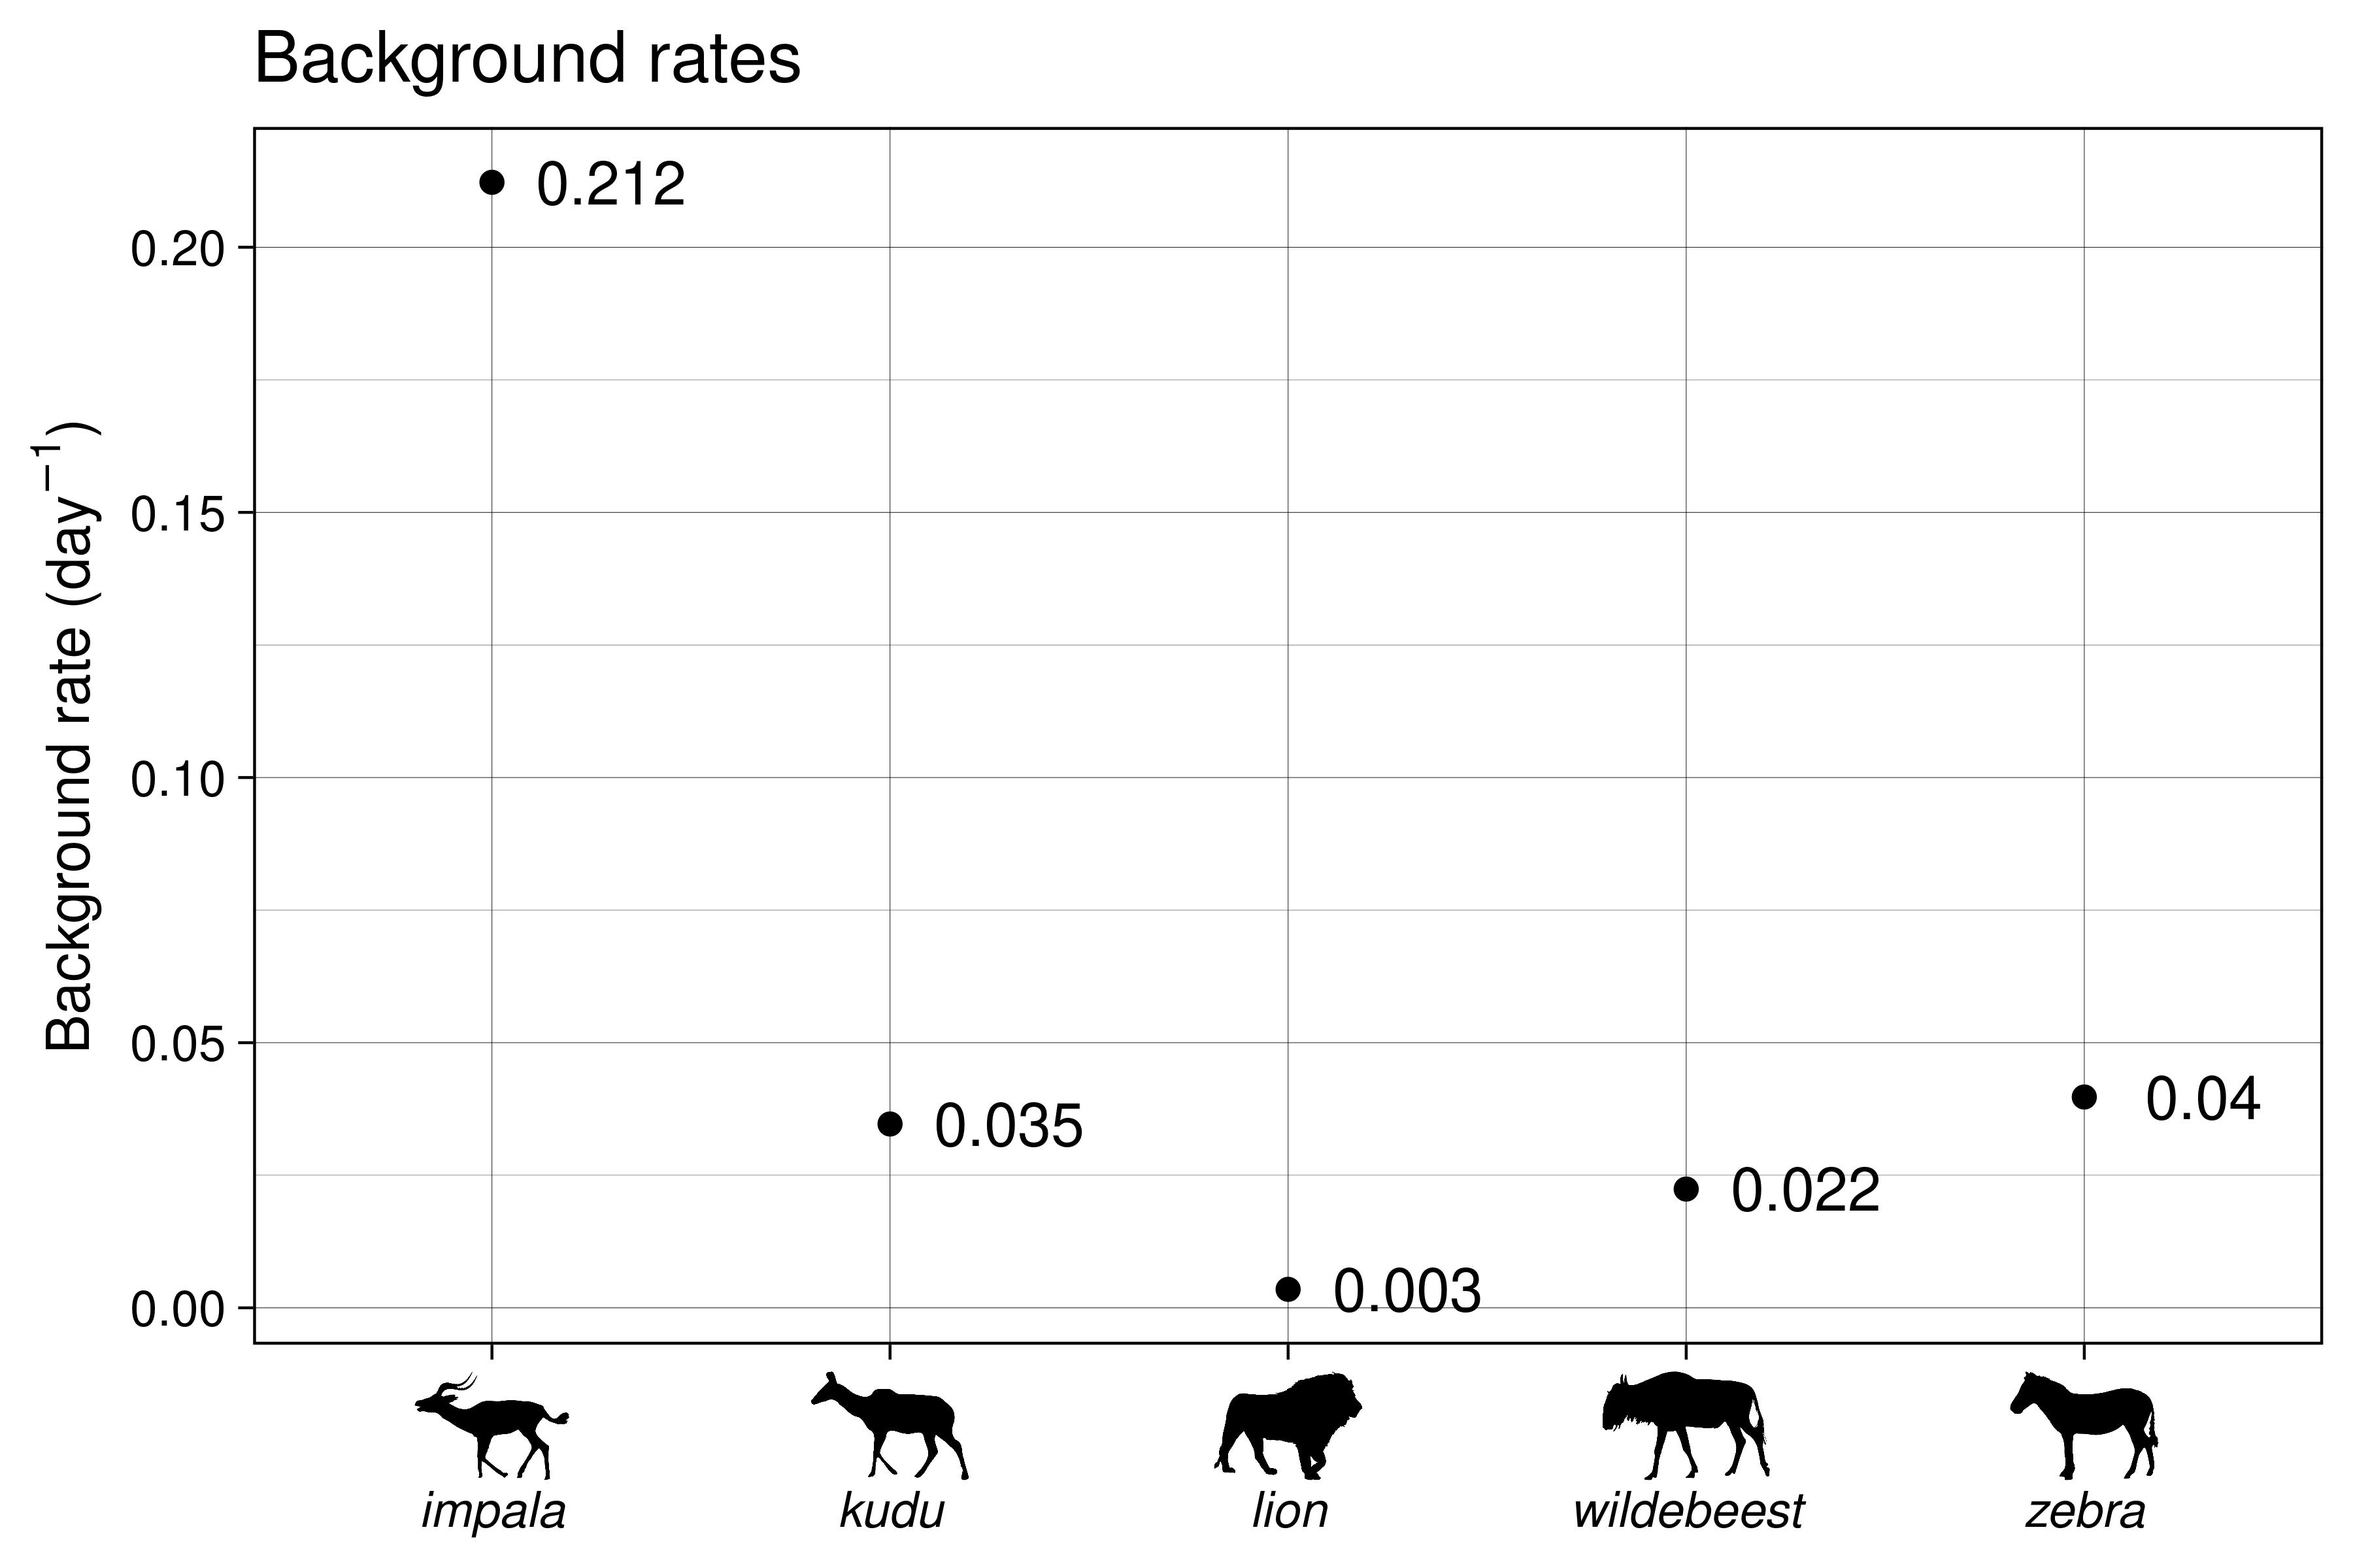
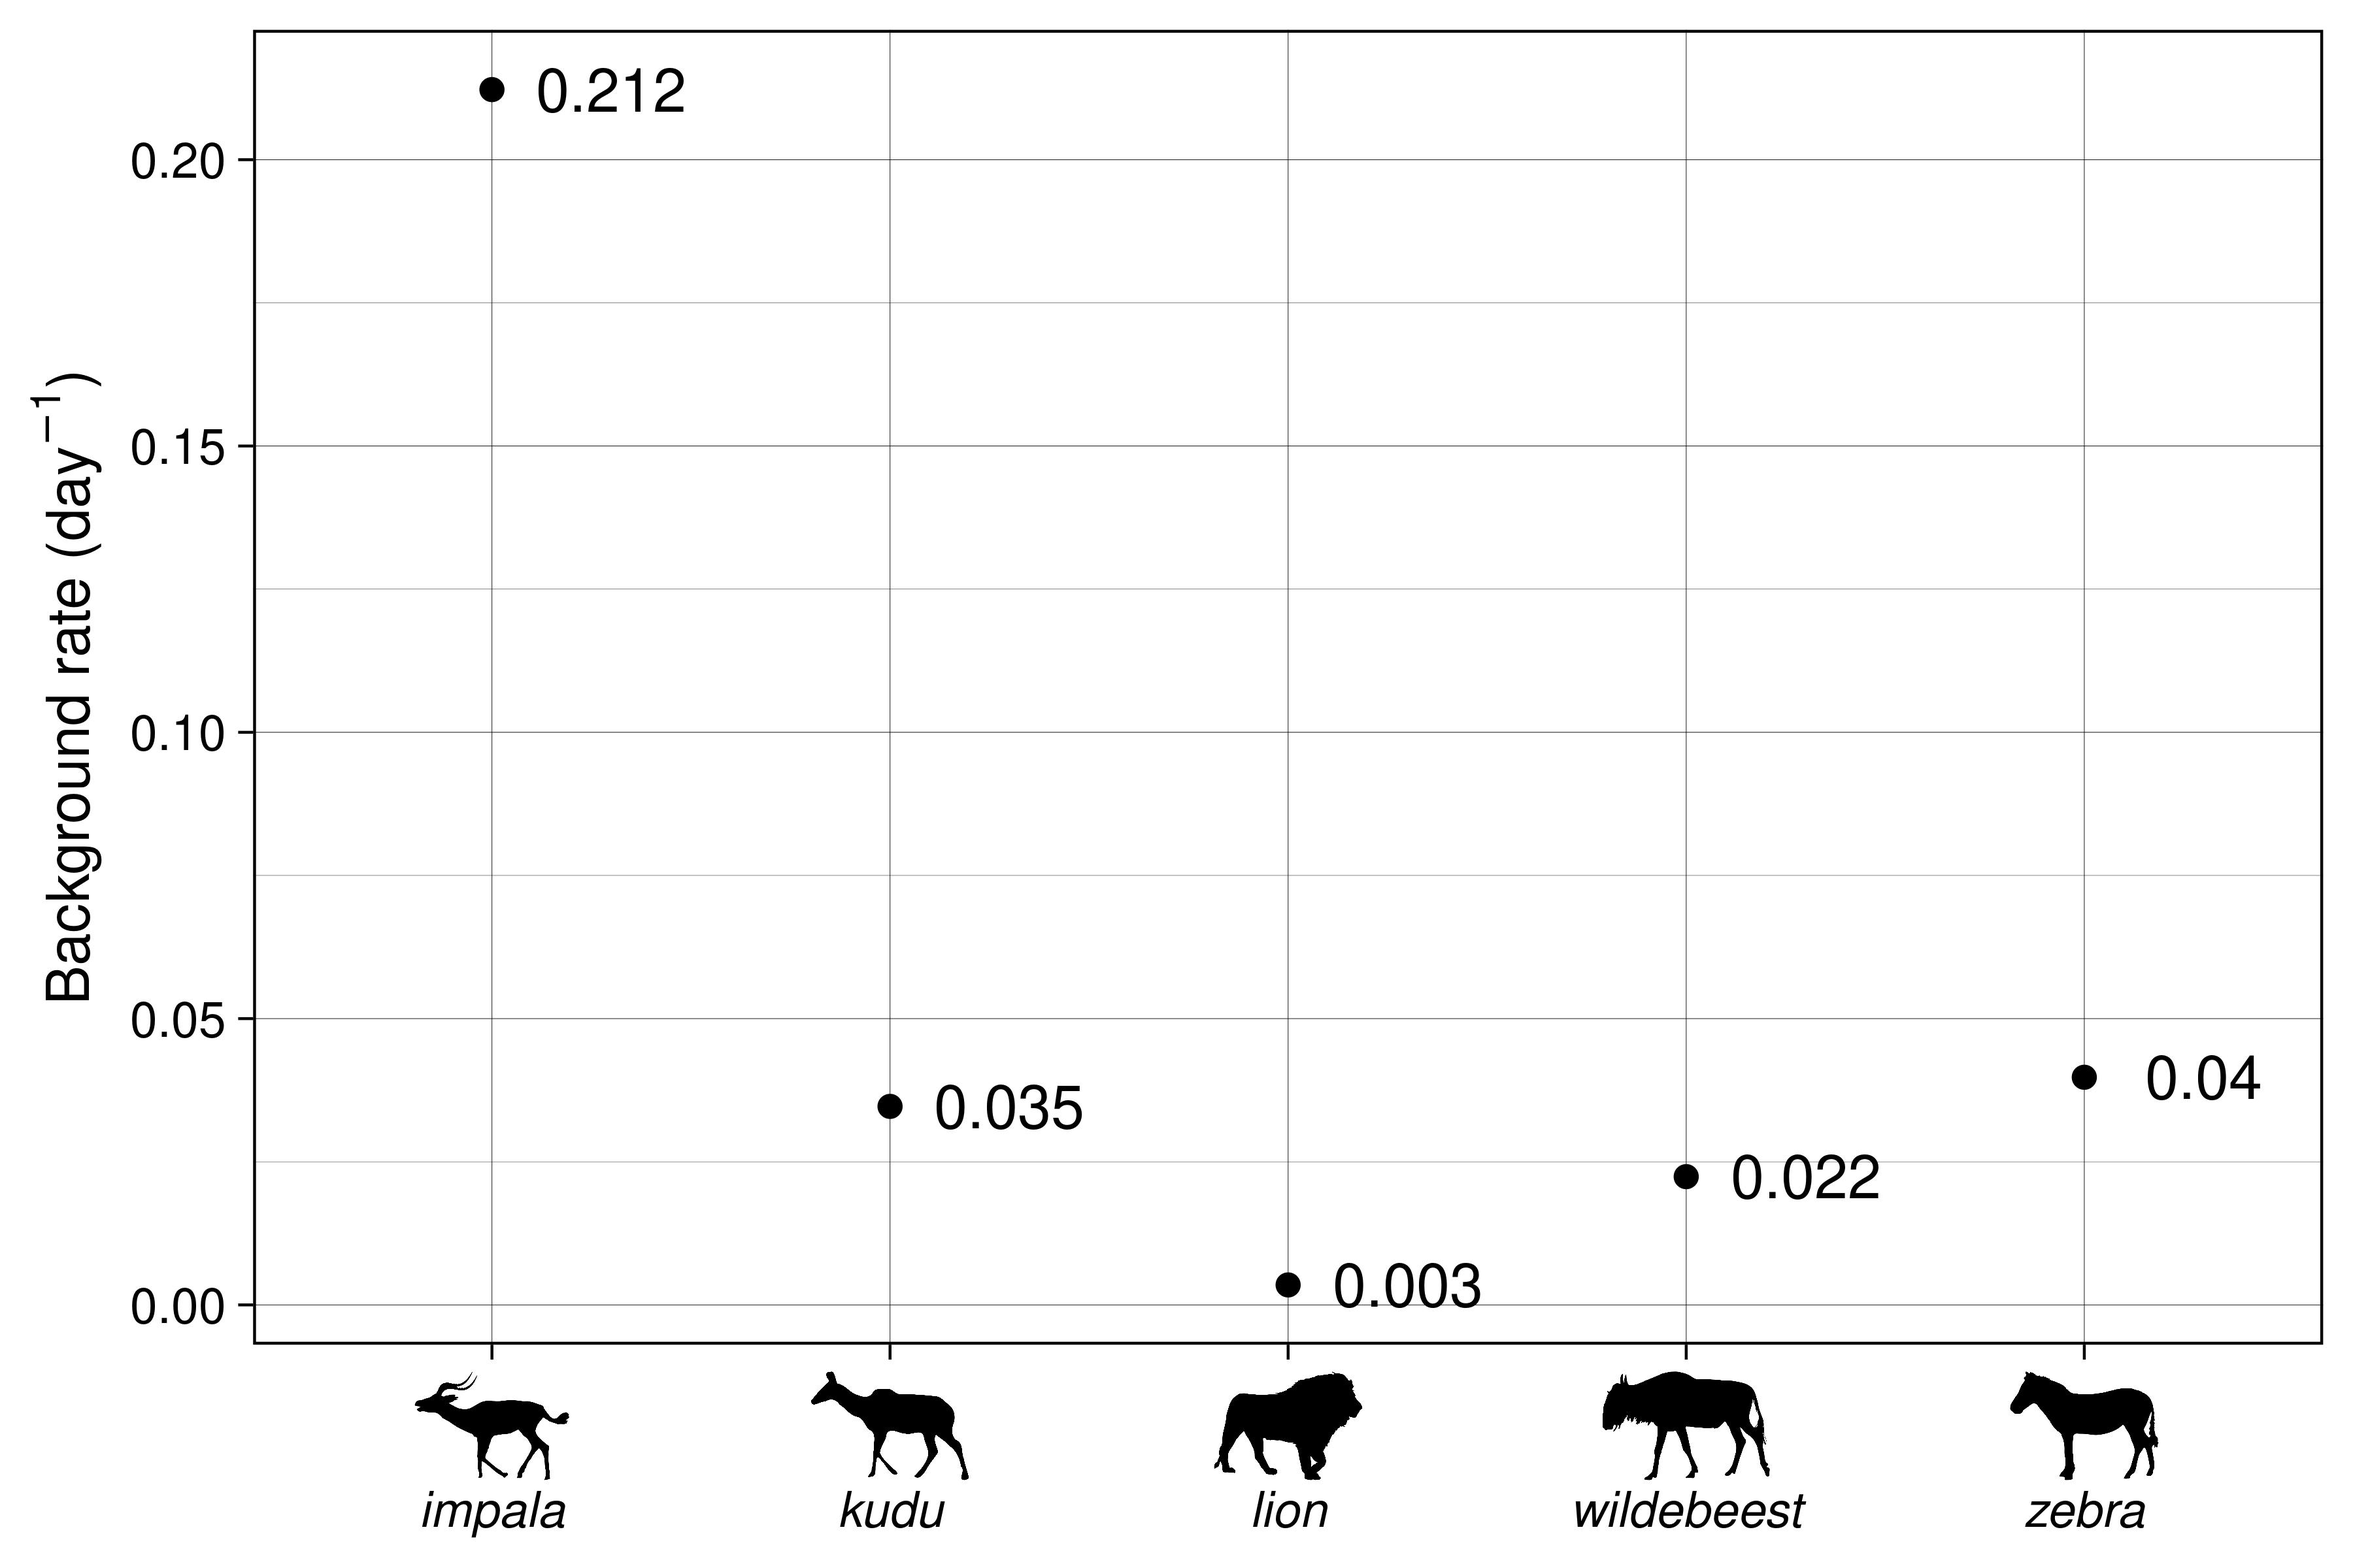
remove title on background rates figure

diff --git a/analyses/05_example_real_data/02_infer.html b/analyses/05_example_real_data/02_infer.html
@@ -7,7 +7,7 @@
 <meta name="viewport" content="width=device-width, initial-scale=1.0, user-scalable=yes">
 
 <meta name="author" content="Lisa Nicvert">
-<meta name="dcterms.date" content="2023-03-09">
+<meta name="dcterms.date" content="2023-03-16">
 
 <title>Infer interactions</title>
 <style>
@@ -2626,7 +2626,7 @@ vertical-align: -.125em;
     <div>
     <div class="quarto-title-meta-heading">Published</div>
     <div class="quarto-title-meta-contents">
-      <p class="date">March 9, 2023</p>
+      <p class="date">March 16, 2023</p>
     </div>
   </div>
   
@@ -2744,12 +2744,11 @@ vertical-align: -.125em;
 <div class="cell">
 <div class="sourceCode cell-code" id="cb7"><pre class="sourceCode r code-with-copy"><code class="sourceCode r"><span id="cb7-1"><a href="#cb7-1" aria-hidden="true" tabindex="-1"></a><span class="co"># --- Plot</span></span>
 <span id="cb7-2"><a href="#cb7-2" aria-hidden="true" tabindex="-1"></a><span class="fu">plot_background_rate</span>(<span class="at">ue_df =</span> plt_ue,</span>
-<span id="cb7-3"><a href="#cb7-3" aria-hidden="true" tabindex="-1"></a>                     <span class="at">title =</span> <span class="st">&quot;Background rates&quot;</span>,</span>
-<span id="cb7-4"><a href="#cb7-4" aria-hidden="true" tabindex="-1"></a>                     <span class="at">textsize =</span> <span class="dv">9</span>,</span>
-<span id="cb7-5"><a href="#cb7-5" aria-hidden="true" tabindex="-1"></a>                     <span class="at">write_label =</span> <span class="cn">TRUE</span>,</span>
-<span id="cb7-6"><a href="#cb7-6" aria-hidden="true" tabindex="-1"></a>                     <span class="at">silhouettes =</span> silhouettes_labs)</span></code><button title="Copy to Clipboard" class="code-copy-button"><i class="bi"></i></button></pre></div>
+<span id="cb7-3"><a href="#cb7-3" aria-hidden="true" tabindex="-1"></a>                     <span class="at">textsize =</span> <span class="dv">9</span>,</span>
+<span id="cb7-4"><a href="#cb7-4" aria-hidden="true" tabindex="-1"></a>                     <span class="at">write_label =</span> <span class="cn">TRUE</span>,</span>
+<span id="cb7-5"><a href="#cb7-5" aria-hidden="true" tabindex="-1"></a>                     <span class="at">silhouettes =</span> silhouettes_labs)</span></code><button title="Copy to Clipboard" class="code-copy-button"><i class="bi"></i></button></pre></div>
 <div class="cell-output-display">
[2 lines of base64/hex data omitted]
 </div>
 <div class="sourceCode cell-code" id="cb8"><pre class="sourceCode r code-with-copy"><code class="sourceCode r"><span id="cb8-1"><a href="#cb8-1" aria-hidden="true" tabindex="-1"></a><span class="co"># Export plot</span></span>
 <span id="cb8-2"><a href="#cb8-2" aria-hidden="true" tabindex="-1"></a><span class="fu">ggsave</span>(<span class="fu">file.path</span>(figures_path, <span class="st">&quot;background_rates.jpeg&quot;</span>),</span>
